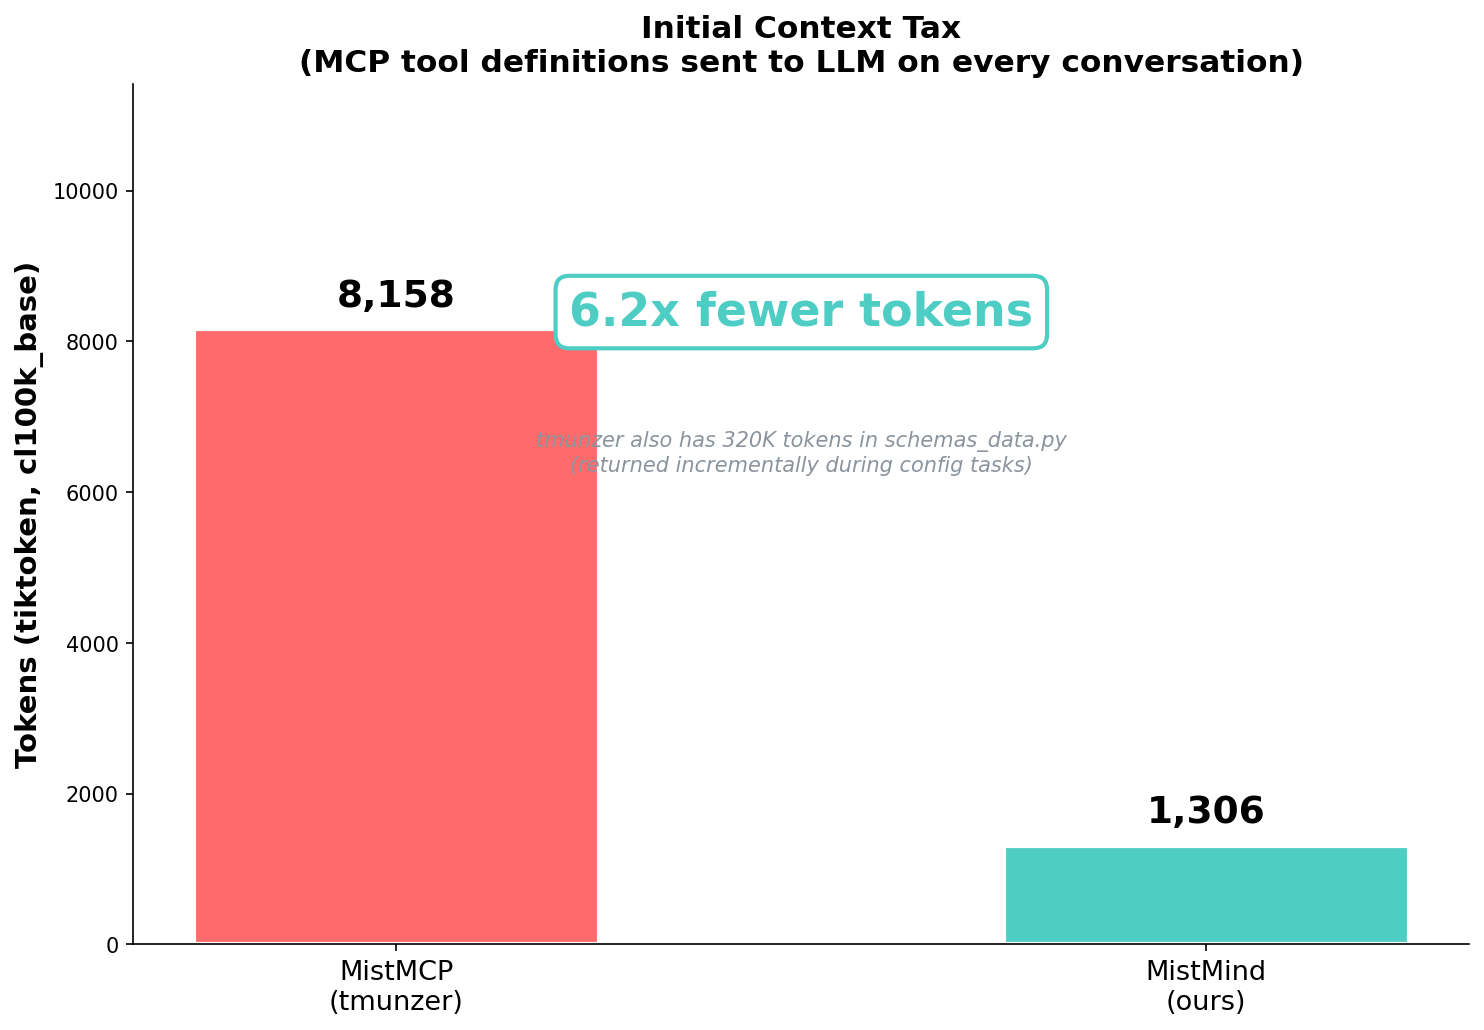
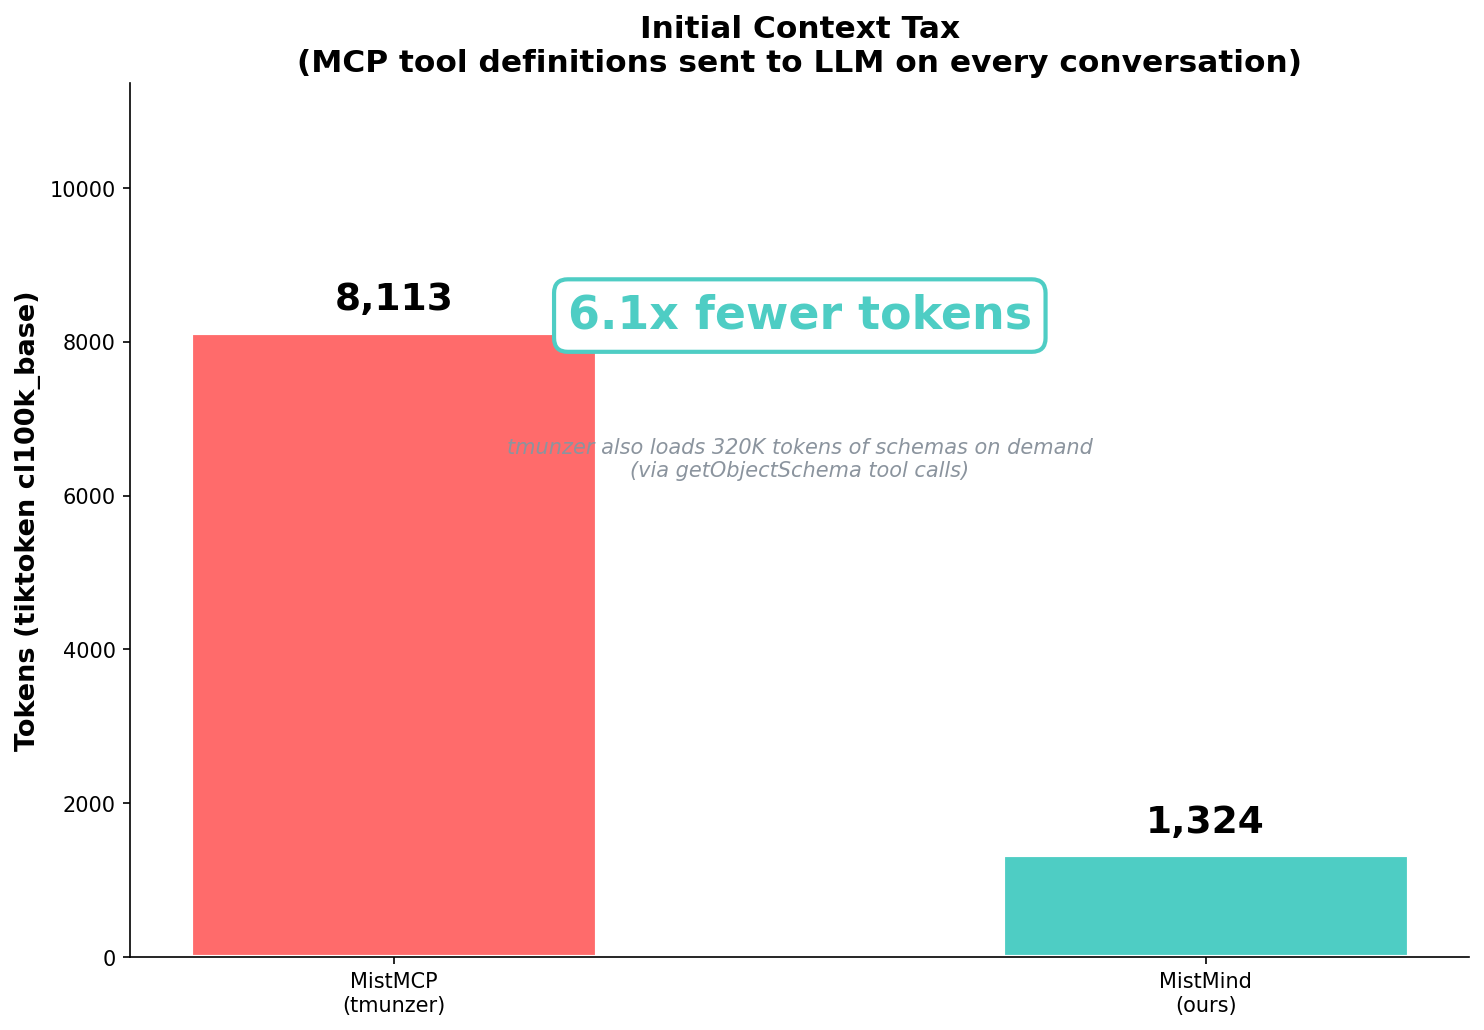
benchmarks: all numbers audited and verified — no guesses
VERIFIED via tiktoken cl100k_base:
  tmunzer init tokens: 8,113 (was 9,041 — overcounted)
  MistMind init tokens: 1,324 (was 871 — undercounted, now includes index)
  Ratio: 6.1x (was claiming 10x)

VERIFIED via grep of mistapi.* calls in tmunzer source:
  tmunzer API coverage: 271 unique functions (was saying 45)
  271/1011 = 26.8% (was saying 4.5%)
  MistMind: 1011/1011 = 100% (unchanged)

VERIFIED via pytest:
  Test count: 233 (was saying 216 — missed recent additions)

Other verified:
  Total Mist endpoints: 1011 (from spec)
  schemas_data.py: 320K tokens (tiktoken)

All charts and HTML updated with verified numbers only.

diff --git a/docs/benchmarks/benchmark.html b/docs/benchmarks/benchmark.html
@@ -37,12 +37,12 @@
 <div class="grid">
 
   <div class="card">
-    <h2>📊 Token Usage (10x savings)</h2>
+    <h2>📊 Token Usage (6.1x savings)</h2>
     <img src="chart1_tokens.png" alt="Token comparison">
   </div>
 
   <div class="card">
-    <h2>🎯 API Coverage (22x more)</h2>
+    <h2>🎯 API Coverage (3.7x more)</h2>
     <img src="chart2_coverage.png" alt="Coverage comparison">
   </div>
 
@@ -73,15 +73,15 @@
       </tr>
       <tr>
         <td>Initial Tokens</td>
-        <td>~9,000</td>
-        <td>~871</td>
-        <td><span class="badge badge-green">MistMind (10x fewer)</span></td>
+        <td>8,113</td>
+        <td>1,324</td>
+        <td><span class="badge badge-green">MistMind (6.1x fewer)</span></td>
       </tr>
       <tr>
         <td>API Coverage</td>
-        <td>45 endpoints (4.5%)</td>
+        <td>271 endpoints (26.8%)</td>
         <td>1,011 endpoints (100%)</td>
-        <td><span class="badge badge-green">MistMind (22x more)</span></td>
+        <td><span class="badge badge-green">MistMind (3.7x more)</span></td>
       </tr>
       <tr>
         <td>Round Trips</td>
@@ -104,13 +104,13 @@
       <tr>
         <td>Security Tests</td>
         <td>Standard</td>
-        <td>216 tests (red team audits)</td>
+        <td>233 tests (red team audits)</td>
         <td><span class="badge badge-green">MistMind</span></td>
       </tr>
       <tr>
         <td>Hardcoded Schemas</td>
-        <td>1.6 MB (schemas_data.py)</td>
-        <td>0 (reads from spec)</td>
+        <td>1.6 MB / 320K tokens (schemas_data.py)</td>
+        <td>0 (reads from spec at runtime)</td>
         <td><span class="badge badge-green">MistMind</span></td>
       </tr>
     </table>
